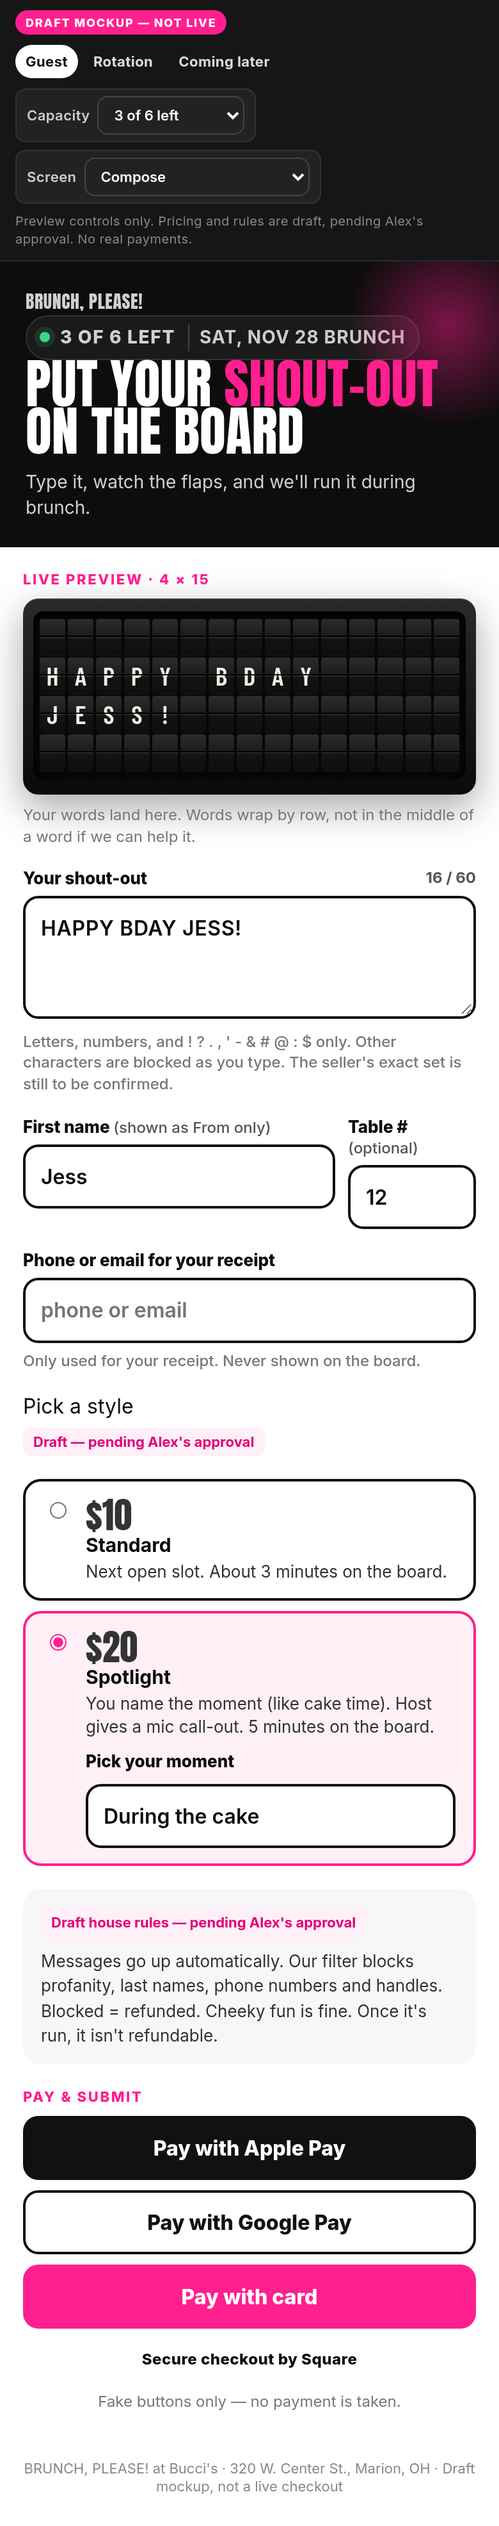
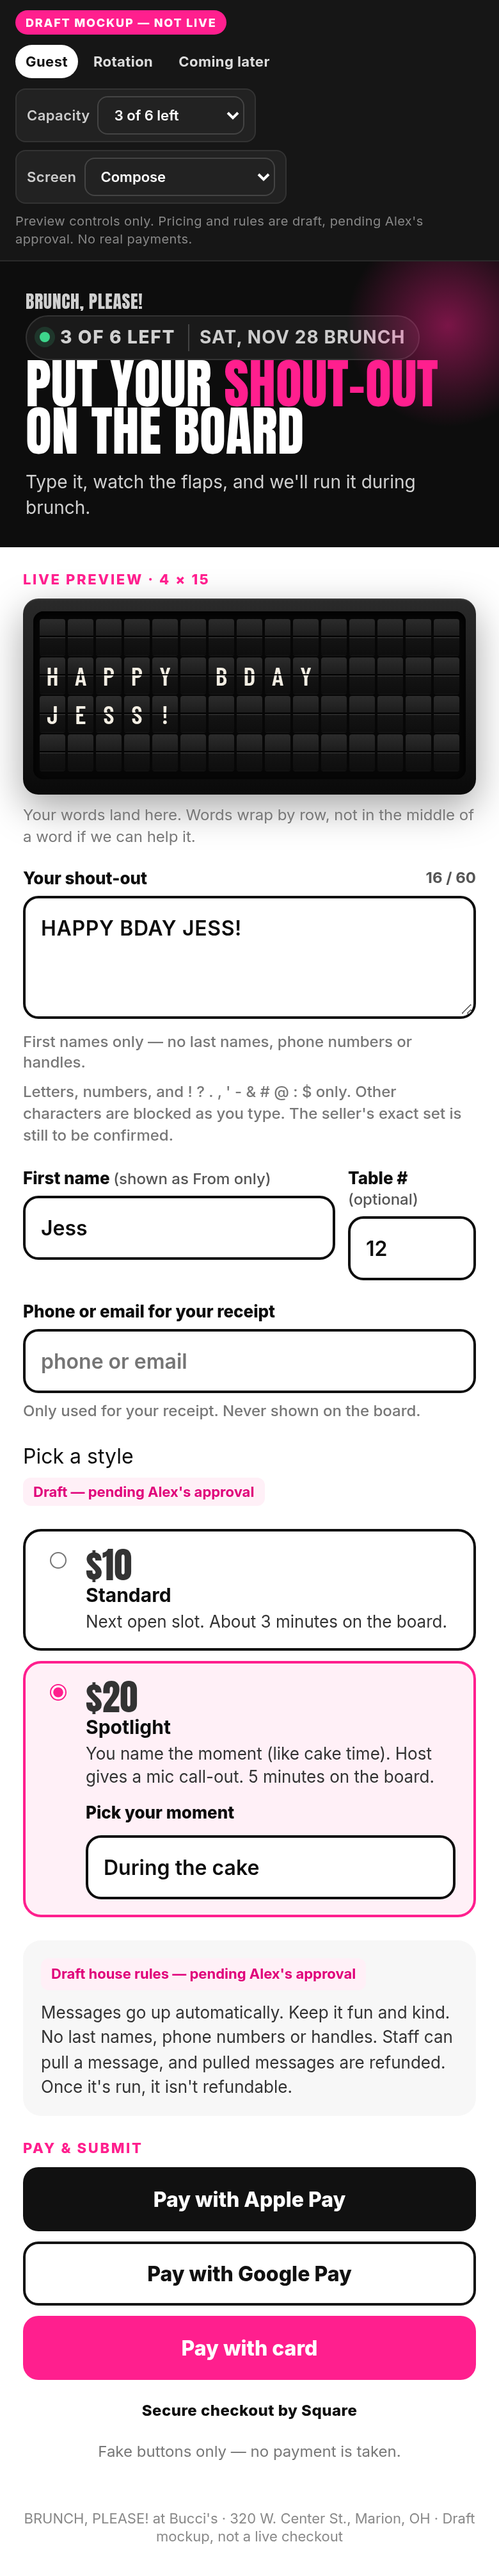
Update hidden split-flap mockup: no filter, pull-to-refund, first-names hint

Changed region(s): [[0.0, 0.0, 1.0, 0.9673], [0.4615, 0.9673, 0.4923, 0.9985]]

diff --git a/preview/splitflap-facd7d77/index.html b/preview/splitflap-facd7d77/index.html
@@ -32,7 +32,6 @@
         <select id="stateToggle" aria-label="Guest screen preview">
           <option value="compose">Compose</option>
           <option value="upnext">You're in the rotation</option>
-          <option value="blocked">Filter blocked — refunded</option>
         </select>
       </label>
     </div>
@@ -56,6 +55,7 @@
 
       <label class="field" for="msg">Your shout-out <span class="counter" id="count">0 / 60</span></label>
       <textarea id="msg" class="msg-input" maxlength="60" rows="3" autocomplete="off" autocapitalize="characters" spellcheck="false" placeholder="HAPPY BDAY JESS!"></textarea>
+      <p class="charset-hint">First names only — no last names, phone numbers or handles.</p>
       <p class="charset-hint">Letters, numbers, and ! ? . , ' - &amp; # @ : $ only. Other characters are blocked as you type. The seller's exact set is still to be confirmed.</p>
       <div class="warn-box" id="blocked" role="status">That character isn't on the board, so it wasn't added.</div>
       <div class="warn-box" id="warn" role="status"></div>
@@ -101,7 +101,7 @@
 
       <div class="rules">
         <span class="draft-note">Draft house rules — pending Alex's approval</span>
-        <p style="margin:0">Messages go up automatically. Our filter blocks profanity, last names, phone numbers and handles. Blocked = refunded. Cheeky fun is fine. Once it's run, it isn't refundable.</p>
+        <p style="margin:0">Messages go up automatically. Keep it fun and kind. No last names, phone numbers or handles. Staff can pull a message, and pulled messages are refunded. Once it's run, it isn't refundable.</p>
       </div>
 
       <p class="kicker">Pay &amp; submit</p>
@@ -136,12 +136,6 @@
     </div>
   </section>
 
-  <section class="status rejected" id="status-blocked">
-    <p class="big-tag">Filter blocked this message — refunded</p>
-    <h2>This one didn't go up.</h2>
-    <p>Our filter caught something in the message. The full amount was sent back to the original payment automatically.</p>
-    <p class="fine">Messages that have already run aren't refundable.</p>
-  </section>
 
   <footer class="fineprint">BRUNCH, PLEASE! at Bucci's · 320 W. Center St., Marion, OH · Draft mockup, not a live checkout</footer>
 </div>
@@ -206,8 +200,7 @@
   }
 
   function setState(state) {
-    if (state === "pending") state = "upnext";
-    if (state === "rejected") state = "blocked";
+    if (["pending", "rejected", "blocked"].indexOf(state) !== -1) state = "upnext";
     const cap = capToggle.value;
     if (cap === "soldout" && (state === "compose" || state === "soldout")) {
       state = "soldout";

diff --git a/preview/splitflap-facd7d77/staff.html b/preview/splitflap-facd7d77/staff.html
@@ -21,7 +21,7 @@
         <a href="later.html">Coming later</a>
       </nav>
     </div>
-    <p class="hint">Live rotation view. Messages auto-join after the filter. Nothing here is a real order or payment.</p>
+    <p class="hint">Live rotation view. Messages go straight into the rotation. Nothing here is a real order or payment.</p>
   </div>
 
   <header class="staff-head">
@@ -30,7 +30,6 @@
     <p>Saturday brunch · Sat, Nov 28</p>
     <div class="stat-row">
       <span class="stat" id="capStat">3 of 6 paid left</span>
-      <span class="stat filter">Blocked by filter today: 1 (auto-refunded)</span>
     </div>
     <p class="draft-note" style="margin-top:10px">Draft — pending Alex's approval</p>
   </header>
@@ -45,7 +44,7 @@
     </div>
   </section>
 
-  <p class="pull-note">Pulled messages are refunded. Draft — pending Alex's confirmation.</p>
+  <p class="pull-note">Pulled messages are refunded.</p>
 
   <section class="slot">
     <h2>Up next</h2>
@@ -189,7 +188,7 @@
     if (item.paid && paidLeft < paidCap) paidLeft += 1;
     toast(item.house
       ? "House message pulled."
-      : "Pulled. Refund is marked as draft — pending Alex's confirmation.");
+      : "Pulled. The guest is refunded.");
     renderAll();
   }
 

diff --git a/preview/splitflap-facd7d77/styles.css b/preview/splitflap-facd7d77/styles.css
@@ -470,8 +470,6 @@ textarea:focus, input:focus { border-color: var(--pink); box-shadow: 0 0 0 3px r
 body[data-state="compose"] #compose { display: block; }
 body[data-state="soldout"] #soldout { display: block; }
 body[data-state="upnext"] #status-upnext { display: block; }
-body[data-state="blocked"] #status-blocked,
-body[data-state="rejected"] #status-blocked { display: block; }
 
 #soldout { padding: 28px 20px 48px; text-align: center; }
 #soldout h2 {

diff --git a/preview/splitflap-facd7d77/NOTES.md b/preview/splitflap-facd7d77/NOTES.md
@@ -5,7 +5,7 @@ Draft mockup only. Nothing is live, no payment is set up, and nothing has been s
 **Alex's decisions (Nov 25, 2026, America/New_York, relayed by Big Dawg):**
 
 - Payment processor: **Square** (online checkout or payment links, Apple Pay and Google Pay, refunds through Square). Not Stripe. (9:04 PM)
-- Moderation (9:10 PM): **no staff approval step.** Paid shout-outs **auto-join the rotation** once they pass the automatic profanity / content filter. Cheeky innuendo is fine. Floor staff can still **pull** a message from the live rotation if needed.
+- Moderation (9:13 PM, replaces the 9:10 PM call): **no filter and no staff approval.** Paid shout-outs **go straight into the rotation**. No profanity filter for now: the crowd is all 21+ women, so swearing is fine. Floor staff can still **pull** a message from the live rotation, and a pulled message is **refunded**.
 - Cap: start at **6 shout-outs per brunch**; **raise the price before adding slots**.
 - Character set: **TBD**. Alex is asking the seller for the flap character list.
 
@@ -20,7 +20,7 @@ A **$40 proposal slot** was floated as a later idea only. It is **not** in the m
 
 Open questions for Alex / Brunch Ops:
 
-- Approve or change the $10 / $20 prices and the 3 / 5 minute holds.
+- Approve or change the $10 / $20 prices (still unconfirmed) and the 3 / 5 minute holds.
 - Is 3 minutes enough for a Standard shout-out in a loud room?
 - For Spotlight, does the 5 minutes start at the named moment, or at the next open slot if that moment is missed?
 - What happens if two Spotlights ask for the same moment?
@@ -37,45 +37,43 @@ Open questions:
 
 ## Moderation
 
-**Decided (Nov 25, 9:10 PM ET):**
+**Decided (Nov 25, 9:13 PM ET, replaces the 9:10 PM filter plan):**
 
-1. After Square payment, an **automatic filter** runs on every message. That's the only gate. It blocks profanity, last names, phone numbers and handles (and, in the draft rules, explicit content, mean roasts, ads, and politics). Cheeky fun is fine.
-2. Anything that passes is **auto-queued into the live rotation**. No staff approval, no 2-minute review target, no 5-minute hold, and nothing is auto-held.
-3. Floor staff can **pull** a message from the rotation (Now showing or Up next). The mockup marks pulled paid messages as refunded, **pending Alex's confirmation**.
+1. After Square payment, a paid shout-out goes **straight into the live rotation**. There is **no filter** (no profanity filter for now; the crowd is all 21+ women, so swearing is fine) and **no staff approval**, review target, or hold.
+2. Floor staff can **pull** a message from the rotation (Now showing or Up next). A pulled message is **refunded** (decided).
+3. Messages that have **already run** are not refundable.
+4. **Content rule (approved by Alex, Nov 25):** shout-outs use **first names only**: no last names, phone numbers or social handles. This is the only content rule; there is still no filter otherwise.
+
+A short hint sits directly under the guest message field: “First names only — no last names, phone numbers or handles.”
 
 Draft guest rules (on the mockup):
 
-> Messages go up automatically. Our filter blocks profanity, last names, phone numbers and handles. Blocked = refunded. Cheeky fun is fine. Once it's run, it isn't refundable.
+> Messages go up automatically. Keep it fun and kind. No last names, phone numbers or handles. Staff can pull a message, and pulled messages are refunded. Once it's run, it isn't refundable.
+
+There is **no automatic profanity filter at launch**. Adding a filter later is an optional idea if the board ever needs a harder gate than staff Pull.
 
 Open questions:
 
-- **Are pulled messages refunded?** The mockup assumes an automatic full refund if the message is pulled before it runs, and labels that as a draft for Alex to confirm. Messages that have already run stay non-refundable.
-- First names only: how do we handle “the Miller party” or a last-name birthday the guest really wants?
-- Should the filter also catch URLs automatically?
 - Who may pull a message — any floor host, or a named person?
+- Is a pull refunded the moment staff pull it, or only if it hasn't finished running?
 
 ## Refunds
 
-Draft policy in the mockup:
+Policy:
 
-- Messages **blocked by the filter** get an **automatic full refund** to the original payment. Guest status: **Filter blocked this message — refunded.**
-- **Pulled** messages that have not yet run are shown as refunded in the mockup, but that refund is **draft — pending Alex's confirmation**.
-- Messages that have **already run** are **not refundable**.
+- **Pulled** messages are **refunded** to the original payment (decided Nov 25, 9:13 PM).
+- Messages that have **already run** (and weren't pulled) are **not refundable**.
+- There is no filter, so there are no filter-block refunds.
 - Ticket Tailor ticket sales stay on their own “all sales are final” policy; this refund rule would apply only to shout-out purchases.
 
 Open questions:
 
-- Confirm automatic refunds for filter blocks.
-- Confirm whether a staff pull is refunded automatically, at staff's call, or not at all.
 - If a Spotlight moment is missed and we run it later, is that still honored or refundable?
 - Who a guest writes if a refund doesn’t land?
 
 ## Guest status screens
 
-The mockup has two post-pay states (no pending-approval screen):
-
-1. **You're in the rotation! Up around 11:40** — the default after a successful (fake) payment that passes the filter. Use `?state=upnext`.
-2. **Filter blocked this message — refunded** — appears instantly at submit in this mockup via the preview control, or `?state=blocked` (the older `?state=rejected` URL still works as an alias).
+After paying, the guest sees **You're in the rotation! Up around 11:40** (`?state=upnext`). There is no pending-approval screen and no filter-blocked screen. Older `?state=pending|rejected|blocked` URLs fall through to the rotation confirmation.
 
 Open questions:
 
@@ -88,12 +86,11 @@ Open questions:
 
 How a Square payment would feed the board (plan only):
 
-1. A successful Square `payment.updated` / checkout completed webhook creates the shout-out row and runs the **filter**.
-2. If it **passes**, the row goes straight into the **live rotation** (`scheduled`). The on-site sign agent (see below) picks up the next frame.
-3. If it **fails**, a Square refund API call sends the full amount back to the original payment and the guest status becomes “Filter blocked this message — refunded.”
-4. If floor staff **pull** a not-yet-run message, the same refund path would run — **if** Alex confirms pulled messages are refunded.
-5. The receipt goes to the guest’s phone or email (stored only for the receipt and refunds — never shown on the board or on the staff rotation view).
-6. If the webhook never arrives, do not queue a message and do not light the board.
+1. A successful Square `payment.updated` / checkout completed webhook creates the shout-out row.
+2. The row goes straight into the **live rotation** (`scheduled`). No filter. The on-site sign agent (see below) picks up the next frame.
+3. If floor staff **pull** a message, a Square refund API call sends the full amount back to the original payment.
+4. The receipt goes to the guest’s phone or email (stored only for the receipt and refunds — never shown on the board or on the staff rotation view).
+5. If the webhook never arrives, do not queue a message and do not light the board.
 
 Tickets still go through **Ticket Tailor**, which stays separate from shout-out purchases.
 
@@ -101,18 +98,18 @@ Tickets still go through **Ticket Tailor**, which stays separate from shout-out 
 
 The mockup allows: **A–Z, 0–9, space, and `! ? . , ' - & # @ : $`**. Input is forced to uppercase. Unsupported characters are **blocked as the guest types** (they never land in the field); a short note explains that the character is not on the board. 60 characters total, including spaces, on a **4 × 15** grid. Words wrap by row and are not split mid-word when it can be avoided. `$` is included as a draft character so house lines like `MIMOSA TOWER $35 10 LEFT` can be typed; drop it if the seller’s flaps do not have a dollar sign.
 
-**Character set: TBD.** Alex is asking the seller for the flap character list. The list above is a placeholder, and it **still needs confirming with the seller** before we lock the input filter. Split-flap modules vary: some omit `@`, `#`, `&`, `$`, or the apostrophe; some use a different punctuation set. Once we have the vendor’s list, the guest field, the house-message field, and the API mapper should all use that same list, and unknown characters should be rejected (or mapped) before anything is sent to the sign.
+**Character set: TBD.** Alex is asking the seller for the flap character list. The list above is a placeholder, and it **still needs confirming with the seller** before we lock the allowed characters. Split-flap modules vary: some omit `@`, `#`, `&`, `$`, or the apostrophe; some use a different punctuation set. Once we have the vendor’s list, the guest field, the house-message field, and the API mapper should all use that same list, and unknown characters should be rejected (or mapped) before anything is sent to the sign.
 
 ## How the sign could be fed from the rotation
 
 Brief technical note, vendor-agnostic, since the open-source, app-controlled sign is not ordered yet.
 
-1. The **live rotation is the source of truth**. A guest payment creates a row, the filter runs, and a pass goes to `scheduled`. Failed text never goes to the sign.
+1. The **live rotation is the source of truth**. A guest payment creates a row that goes straight to `scheduled` (no filter). Only characters the sign supports are sent.
 2. A small **on-site agent** (Raspberry Pi, the sign’s own controller host, or a tiny always-on box on the same network) either polls something like `GET /api/board/current` every few seconds or receives a push (MQTT or webhook).
 3. The payload is a fixed **4 × 15** frame plus a hold time, e.g. `{ "id": "…", "lines": ["HAPPY BDAY    ", "JESS!         ", "…", "…"], "hold_seconds": 180 }`, already mapped to the vendor character set.
 4. The agent translates that into whatever the open-source controller speaks (HTTP, MQTT, websocket, or serial — depends on the seller) and sends it. After `hold_seconds`, it asks for the next scheduled item or shows an **idle / brand frame**.
 5. Spotlight items are scheduled for a target window; the staff phone can still get a cue for the mic call-out. If the official companion app cannot be bypassed, we need the seller’s API or a local integration path before we promise automation.
-6. A **pull** removes the item from `scheduled` (and may trigger a refund — pending confirmation) before the agent sends that frame.
+6. A **pull** removes the item from `scheduled` (and triggers a refund) before the agent sends that frame.
 7. If the link drops, the sign should keep the last safe frame or revert to the idle frame — it should not invent a message. Logs (what was shown and when) stay internal and must not be published on a public page.
 
 Until the seller is chosen, this stays a plan, not a build.
@@ -141,14 +138,10 @@ Open questions:
 - Who may send a house message — any host, or a named person?
 - How long does a house message stay up, and can a paid Spotlight bump it?
 
-## Filter activity on the staff view
-
-The staff mockup shows a small stat, **Blocked by filter today: 1 (auto-refunded)**. There is no pending “filtered” card in the rotation, and no profanity is displayed.
-
 ## What’s in this folder
 
-- `index.html` — guest QR order page, including sold-out, in-the-rotation, and filter-blocked screens (use the preview controls, or `?state=upnext|blocked` and `?cap=soldout`).
-- `staff.html` — live rotation view with Now showing (countdown), Up next, optional Pull buttons, a cap counter, a “blocked by filter today” stat, and a House message composer. Sample data only (e.g. “HAPPY BDAY JESS!” from Table 12). No receipt contact is shown.
+- `index.html` — guest QR order page, including sold-out and in-the-rotation screens (use the preview controls, or `?state=upnext` and `?cap=soldout`).
+- `staff.html` — live rotation view with Now showing (countdown), Up next, a Pull button on each item (pulled = refunded), a cap counter, and a House message composer. Sample data only (e.g. “HAPPY BDAY JESS!” from Table 12). No receipt contact is shown.
 - `later.html` — light “Coming later” sketches for A/B/C/D song voting and a $5 song request.
 - `styles.css`, `flap.js` — shared look and the 4 × 15 flap preview.
 - `screenshots/` — 390px-wide PNGs of each screen.
